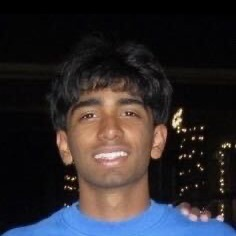
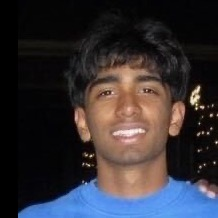
Update

diff --git a/themes/labtheme/layouts/people/list.html b/themes/labtheme/layouts/people/list.html
@@ -51,7 +51,7 @@
             <div class="person-glass"></div>
           </div>
           <h3 class="person-name"><a href="{{ .RelPermalink }}">{{ .Title }}</a></h3>
-          <div class="person-role">{{ .Params.position }}</div>
+          {{ with .Params.position }}<div class="person-role">{{ . }}</div>{{ end }}
           <div class="person-affiliation">{{ .Params.affiliation }}</div>
         </div>
       {{ end }}

diff --git a/content/people/aaron-joseph.md b/content/people/aaron-joseph.md
@@ -1,6 +1,5 @@
 ---
 title: "Aaron Joseph"
-position: "High School Student"
 affiliation: "NCSSM"
 role: "highschool"
 photo: "/images/people/aaron-joseph.jpg"
